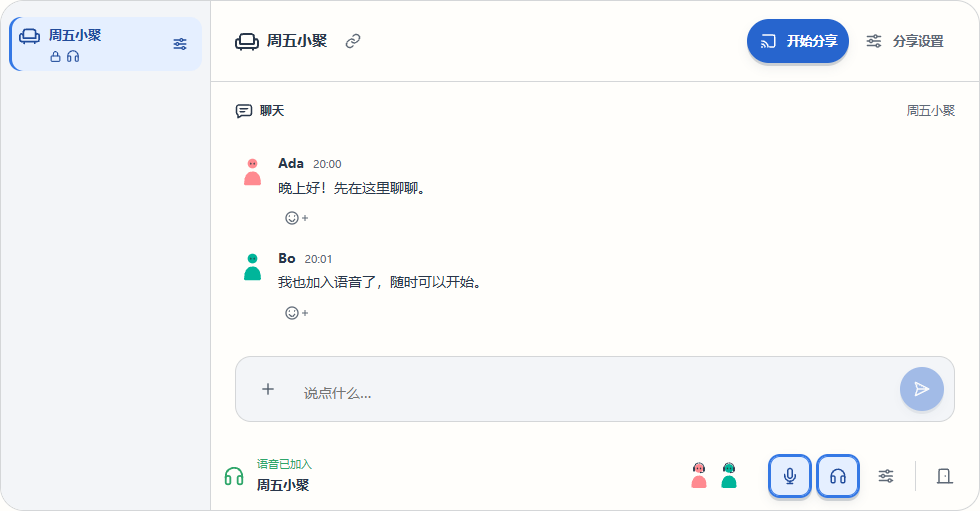
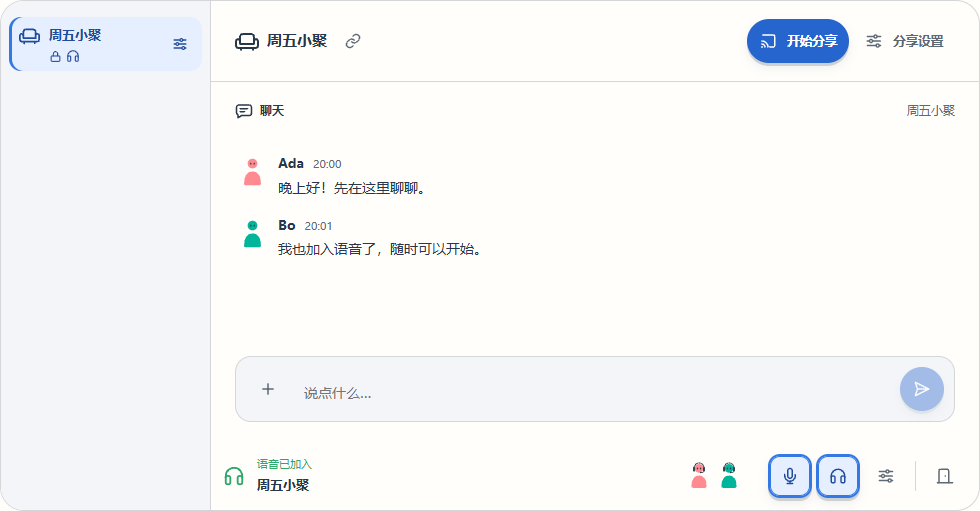
docs(channel): sync guides and evidence with the current internal candidate

Changed region(s): [[0.2449, 0.411, 0.4898, 0.5871], [0.2755, 0.5871, 0.3061, 0.6164]]

diff --git a/docs/verification-status.md b/docs/verification-status.md
@@ -1,6 +1,6 @@
 # Verification Status
 
-Last updated: 2026-11-10
+Last updated: 2026-11-11
 
 This page summarizes the current 3.0 evidence and limits that affect product
 claims. [Status](./status.md#isolated-30-prototype) owns delivery readiness;
@@ -22,11 +22,18 @@ The newer conversation path passes normal Browser-hosted and App-hosted room
 checks with peer signaling blocked: history, bidirectional messages and saved
 reactions work without RTC connections. Attachment descriptions also arrive
 without RTC; their file content downloads over P2P once that path is available.
-The current internal Windows and Android packages include this path. Windows
-upgrade checks used a copy of the previous candidate's data; Android's same-signature
-update retained its existing room/history and kept a generated invitation after reload.
+The delivered Windows and Android candidates include this path. Earlier Windows
+upgrade checks used a copy of the previous candidate's data; an Android
+same-signature update retained compatible room/history and its invitation after
+reload. Older private storage formats follow the
+[storage reset boundary](../prototype/channel-server/README.md#saved-data-and-files).
 
-The current Windows package also passes normal control request and Host
+The latest Windows candidate passed normal App acceptance. The matched Android
+candidate passed build and package checks but has not been installed for runtime
+acceptance. Its correction to dormant-encoder bitrate observation has focused
+regression coverage; an Android runtime comparison remains pending.
+
+Windows package checks also cover normal control request and Host
 approval, real pointer and keyboard input to an isolated window, and **End
 control** with no held test keys. Closing the Windows console during active
 Native capture retires the App, encoder children and listeners. Android's
@@ -66,9 +73,10 @@ execution evidence. OS permission, protected/admin application and game
 compatibility remain bounded by the
 [input assessment](./research/room-interactions.md#attended-remote-control-prototype).
 
-Android runtime acceptance includes the official API35 x64 emulator, system
-capture consent, decoded picture, room data across same-signature updates, and
-normal source/runtime stop. ARM64 is packaged and checked statically; it has not
+Android runtime evidence from preceding candidates includes the official API35
+x64 emulator, system capture consent, decoded picture, compatible room data across
+same-signature updates, and normal source/runtime stop. ARM64 is packaged and
+checked statically; it has not
 received equivalent physical-device acceptance. Phone, tablet and TV performance,
 suspension behavior and physical sound remain device acceptance work.
 

diff --git a/docs/status.md b/docs/status.md
@@ -1,6 +1,6 @@
 # Current Status
 
-Last updated: 2026-11-10
+Last updated: 2026-11-11
 
 This is the compact execution/deployment index. Product modules own behavior,
 [verification status](./verification-status.md) summarizes material evidence limits,
@@ -13,8 +13,10 @@ across Server, Native and Browser/WASM, with the shared Web UI for chat, screen
 sharing, selective watching, room voice and App control. Normal development and
 distribution use these Rust/Web paths; Go tooling only builds the pinned
 Cloudflared helper. Work stays on `feat/channel-prototype`, separately from 2.x.
-Windows and Android normal-package candidates are ready for initial internal
-testing. Exact delivered revisions and acceptance receipts remain with the packages.
+Matched Windows and Android candidates have been delivered for internal testing.
+Windows package acceptance passed; installation and runtime acceptance of the
+latest Android candidate remain pending. Exact revisions and receipts stay with
+the packages.
 
 The site owns user identity and directory summaries. Room plans and shared transport
 leases keep separate Rust owners. Rooms created in the UI run in their owner's
@@ -61,13 +63,11 @@ First-beta feedback and confirmed blocking defects take priority. Follow-up UI,
 terminal and documentation work stays separate from the delivered test package.
 Conversation now uses the domain WebSocket to reach its actual room host,
 independently of peer reachability. Media and file bytes retain their peer paths.
-The current internal Windows and Android packages include this path and the
-reorganized room controls. Upgrade checks preserve existing room data and history;
-delivered package receipts retain their exact source and tested scope.
-Newer source includes room-list management, responsive grid/focus viewing and
-the shared Native picture-quality policy across Windows, Android, macOS and Linux.
-The next internal package follows workspace design acceptance; existing delivered
-packages retain their recorded revisions and matched protocols.
+The delivered candidates include this path, room-list management, responsive
+grid/focus viewing and the shared Native picture-quality policy. Data retention
+across updates depends on the supported storage formats; older private experiments
+follow the [documented reset boundary](../prototype/channel-server/README.md#saved-data-and-files).
+Package receipts retain each candidate's exact source and tested scope.
 [TODO](./todo.md) owns remaining work and owner holds. Applicable defects continue
 to feed the separate 2.x maintenance line, which preserves its published contracts.
 

diff --git a/docs/guide/getting-started.md b/docs/guide/getting-started.md
@@ -105,10 +105,12 @@ Manage approved sites from the App launcher. See the
 
 ### Upgrading
 
-Use the 3.0 test update supplied to you and keep your existing App data when
-updating. After updating App, refresh the Web page. If its App connection reports
-an incompatible interface, follow the update prompt. Public 2.x downloads are
-not the 3.0 test update.
+Read the upgrade instructions supplied with your 3.0 test package, then refresh
+the Web page after updating App. If App reports `unsupported_domain_checkpoint`,
+it has preserved data from an older test format. Keep that data and follow the
+package's fresh-data instructions; [saved-data settings](../../prototype/channel-server/README.md#saved-data-and-files)
+explain the separate App and Server directories. Public 2.x downloads are not
+the 3.0 test update.
 
 ## Share from an existing site
 
@@ -128,8 +130,8 @@ the native sources supported by your device.
   **Leave voice** ends your participation in that room's call.
 - Closing your page ends its personal shares, viewing and voice. An
   **App-hosted room** continues while App runs; a **Browser-hosted room** is
-  unavailable while its hosting page is closed. Switching rooms or toggling
-  **Compact interface** keeps your other room activities running.
+  unavailable while its hosting page is closed. Switching rooms or collapsing
+  sidebars keeps your other room activities running.
 - Closing the App launcher page leaves App running. Stopping App ends the
   activities it runs and makes its hosted rooms unavailable across all its
   connected sites. Reopen App to host those rooms again.

diff --git a/docs/guide/getting-started.zh-CN.md b/docs/guide/getting-started.zh-CN.md
@@ -91,8 +91,10 @@
 
 ### 版本升级
 
-使用提供给你的 3.0 内测更新，并保留已有 App 数据。更新 App 后刷新所用网页；
-如果 App 连接提示接口不兼容，按更新提示处理。公开的 2.x 下载不是本次 3.0 内测更新。
+先阅读 3.0 内测包附带的升级说明，更新 App 后刷新所用网页。如果提示
+`unsupported_domain_checkpoint`，表示已有数据来自更早的测试格式，原数据仍保留。
+先留存旧资料，再按包内说明使用新的测试数据；App 与 Server 的独立数据目录见
+[数据设置](../../prototype/channel-server/README.md#saved-data-and-files)。公开的 2.x 下载不是本次 3.0 内测更新。
 
 ## 使用已有站点分享
 
@@ -107,7 +109,7 @@
 
 - **停止分享**结束该分享，**停止观看**结束你的观看，**退出语音**结束你在该房间的通话。
 - 关闭网页会结束它的个人分享、观看和语音。**App 托管房间**在 App 运行时继续服务；
-  **网页托管房间**在托管网页关闭期间不可用。切换房间或开关**简洁界面**不会停止其他房间的活动。
+  **网页托管房间**在托管网页关闭期间不可用。切换房间或收起侧栏不会停止其他房间的活动。
 - 关闭 App 启动网页不会停止 App。停止 App 会结束由它运行的活动，并让它在各个已连接站点
   托管的房间暂时不可用；重新打开 App 后可再次托管。
 - 已确认的聊天记录由房间托管端保存。刷新后，托管端可用时会重新加载历史，

diff --git a/docs/guide/room-tools.md b/docs/guide/room-tools.md
@@ -44,8 +44,10 @@ The site operator opens settings by selecting the site name above the room list.
 
 1. Select a room and send a message in its conversation. Use the attachment
    button to add an image or file; you can include text with it.
-2. Use **React to this message** to choose a reaction. Each confirmed click adds
-   one to its count; selecting it again adds another after the brief cooldown.
+2. Hover over a message or focus its reaction button with the keyboard to show
+   **React to this message**. Touchscreens keep the button visible. Existing
+   counts stay below the message; each confirmed click adds one, including
+   another click on the same reaction after the brief cooldown.
 3. To read back, select **Earlier messages**. **Latest messages** returns to
    the current conversation.
 
@@ -59,8 +61,8 @@ File content, voice and shared pictures use their own P2P connections.
 
 Selecting a person in the room opens their interaction menu. Expressions and
 thrown props are live effects; they are not saved as message reactions.
-Each shared picture shows its reaction counts underneath, using the same controls
-as messages. Click an existing reaction to add another, or use **React to this screen**
+Beside the viewer count on each picture, reactions use the same controls as
+messages. Click an existing reaction to add another, or use **React to this screen**
 to choose a different one. Counts last for that share; loading counts does not replay animations.
 
 While watching a picture, **On screen** in its playback bar shows that room's

diff --git a/docs/guide/room-tools.zh-CN.md b/docs/guide/room-tools.zh-CN.md
@@ -31,7 +31,7 @@
 ## 聊天与表情
 
 1. 选择房间，在聊天输入框中发送消息。点击附件按钮可添加图片或文件，也可以同时附上文字。
-2. 点击消息下方的 **回应这条消息**，选择表情。每次确认后次数加一；短暂冷却后再次点击会继续累加。
+2. 悬停消息，或用键盘聚焦回应按钮，显示 **回应这条消息**；触屏上按钮保持可见。已有次数常驻消息下方，每次确认后次数加一；短暂冷却后再次点击同一表情会继续累加。
 3. 点击 **更早的消息** 向前阅读；**最新消息** 可回到当前聊天。
 
 确认发送的消息和消息表情次数由托管房间的一端保存。刷新页面或重新进入时，
@@ -40,7 +40,7 @@
 有参与者持有可读取的副本时，才能打开或下载。
 
 点击房间里的人物可以打开互动菜单。人物表情与投掷道具是实时效果，不会保存为消息表情。
-共享画面下方直接显示表情和次数，操作与消息相同。点击已有表情继续回应，或用 **回应此画面** 选择其他表情。
+每个画面的观看人数旁显示表情和次数，操作与消息相同。点击已有表情继续回应，或用 **回应此画面** 选择其他表情。
 不同分享分别计数，停止分享时结束；载入已有次数不会重播动画。
 
 文件内容、语音和共享画面使用各自的 P2P 连接。
